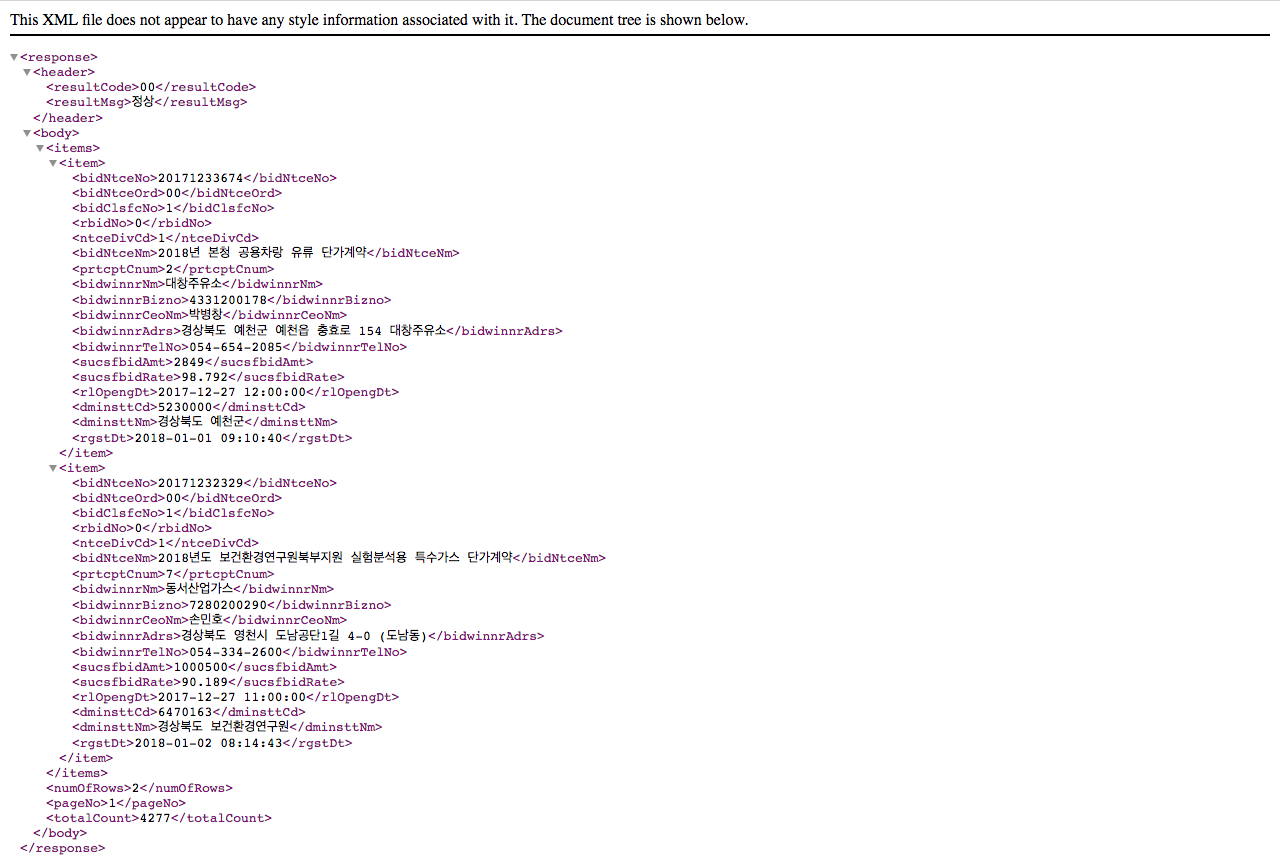
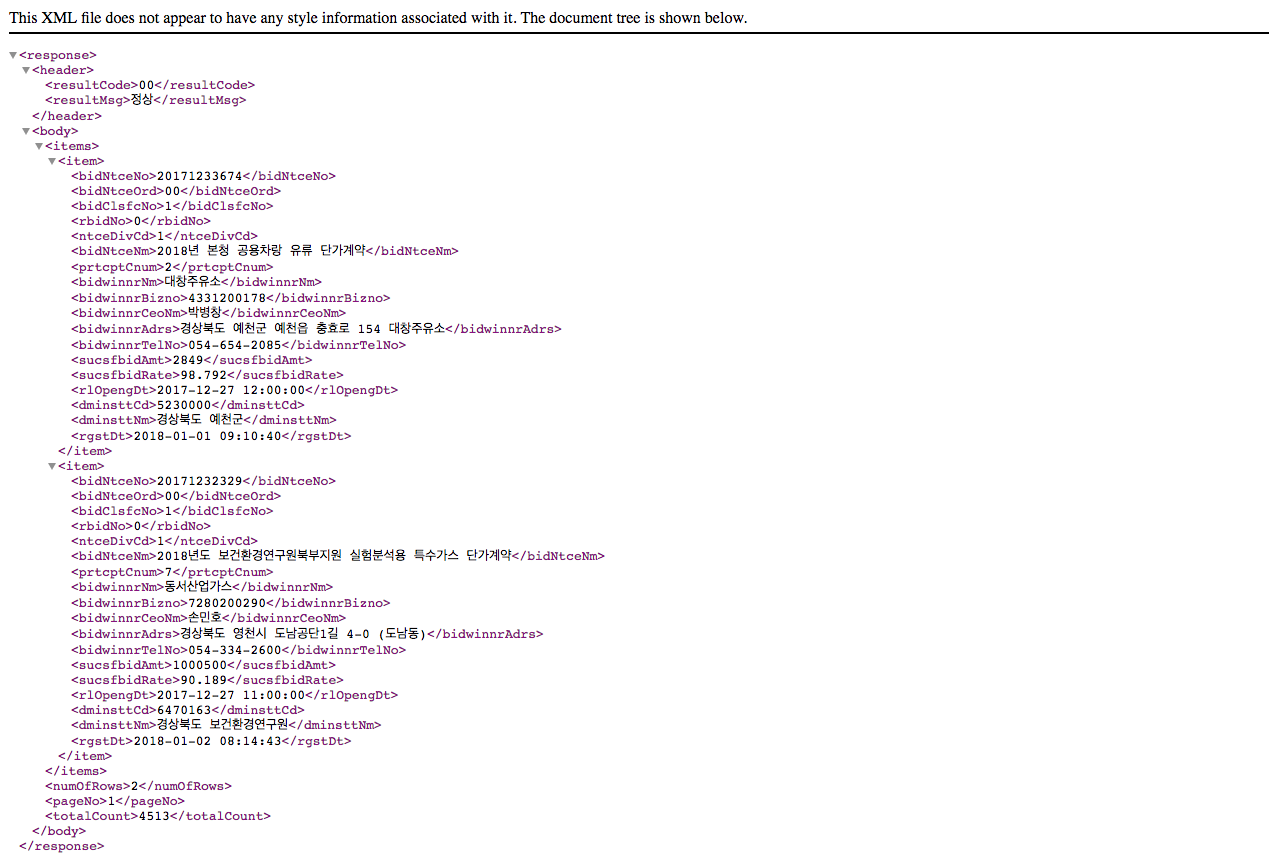
edit counts

Changed region(s): [[0.0, 0.0, 1.0, 0.9977]]

diff --git a/_posts/2018-02-01-R에서-Open-API-활용하기.md b/_posts/2018-02-01-R에서-Open-API-활용하기.md
@@ -108,7 +108,7 @@ cat(url)
 
 ![](https://github.com/MrKevinNa/MrKevinNa.github.io/blob/master/images/조달청_나라장터_낙찰정보_XML_예시.png?raw=true)
 
-위 이미지의 맨 아래를 보면 전체 건수가 4,277건임을 알 수 있습니다. 그리고 현재 2건의 데이터가 화면에 보이며, 그 2건은 `<item>` 태그로 묶여서 각각 18개의 세부 항목이 제공되고 있습니다.
+위 이미지의 맨 아래를 보면 전체 건수가 4,513건임을 알 수 있습니다. 그리고 현재 2건의 데이터가 화면에 보이며, 그 2건은 `<item>` 태그로 묶여서 각각 18개의 세부 항목이 제공되고 있습니다.
 
 그럼 이 url로 요청하고 응답받은 XML을 정리하는 방법에 대해 알려드리겠습니다. 간단하게 `GET()`를 이용하여 요청하면 됩니다.
 
@@ -187,7 +187,7 @@ df <- data.frame(
 
 위와 같이 함으로써 한 페이지에 보이는 XML을 데이터 프레임 형태로 저장할 수 있습니다.
 
-만약 4,277건을 모두 수집하려면 어떻게 해야 할까요? url 요소 중 **한 페이지 결과 수**를 1,000으로 다시 지정하고 **페이지 번호**를 1~5까지 순환하며 반복실행하면 간단하게 해결될 것입니다.
+만약 4,513건을 모두 수집하려면 어떻게 해야 할까요? url 요소 중 **한 페이지 결과 수**를 1,000으로 다시 지정하고 **페이지 번호**를 1~5까지 순환하며 반복실행하면 간단하게 해결될 것입니다.
 
 그런데 가능한 모든 것을 자동화하는 것을 시도해보겠습니다. 일단 전체 제공 건수를 모른다고 가정하고 이 숫자를 확인한 후 페이지 수를 계산하는 코드를 만들어 봅시다.
 
@@ -214,7 +214,7 @@ print(pages)
 
     ## [1] 5
 
-총 건수가 3건이 늘어 4,280건이 되었습니다. 이제 마지막으로 최종 결과 객체를 빈 데이터 프레임으로 생성한 후, `rbind()`만 해주면 끝입니다.
+이제 마지막으로 최종 결과 객체를 빈 데이터 프레임으로 생성한 후, `rbind()`만 해주면 끝입니다.
 
 ``` r
 # 최종 결과 객체
@@ -277,7 +277,7 @@ str(object = compList)
     ##  $ 전화번호  : chr  "054-654-2085" "054-334-2600" "062-511-1104" "062-526-5657" ...
     ##  $ 낙찰금액  : chr  "2849" "1000500" "285500" "280000" ...
 
-이번에 생성한 데이터 프레임이 모두 4,280건, 9개 컬럼을 갖는 것으로 확인되었습니다.
+이번에 생성한 데이터 프레임이 모두 4,513건, 9개 컬럼을 갖는 것으로 확인되었습니다.
 
 이상으로 Open API를 활용한 공공데이터 수집을 소개해드렸습니다. 공공데이터 포털 뿐만 아니라 서울데이터광장, 금융감독원 및 한국은행 등 국가기관에서 다양한 데이터를 Open API로 공개하고 있으니 원하는 데이터가 있으면 손쉽게 수집하여 데이터 분석에 활용하시기 바랍니다!
 
